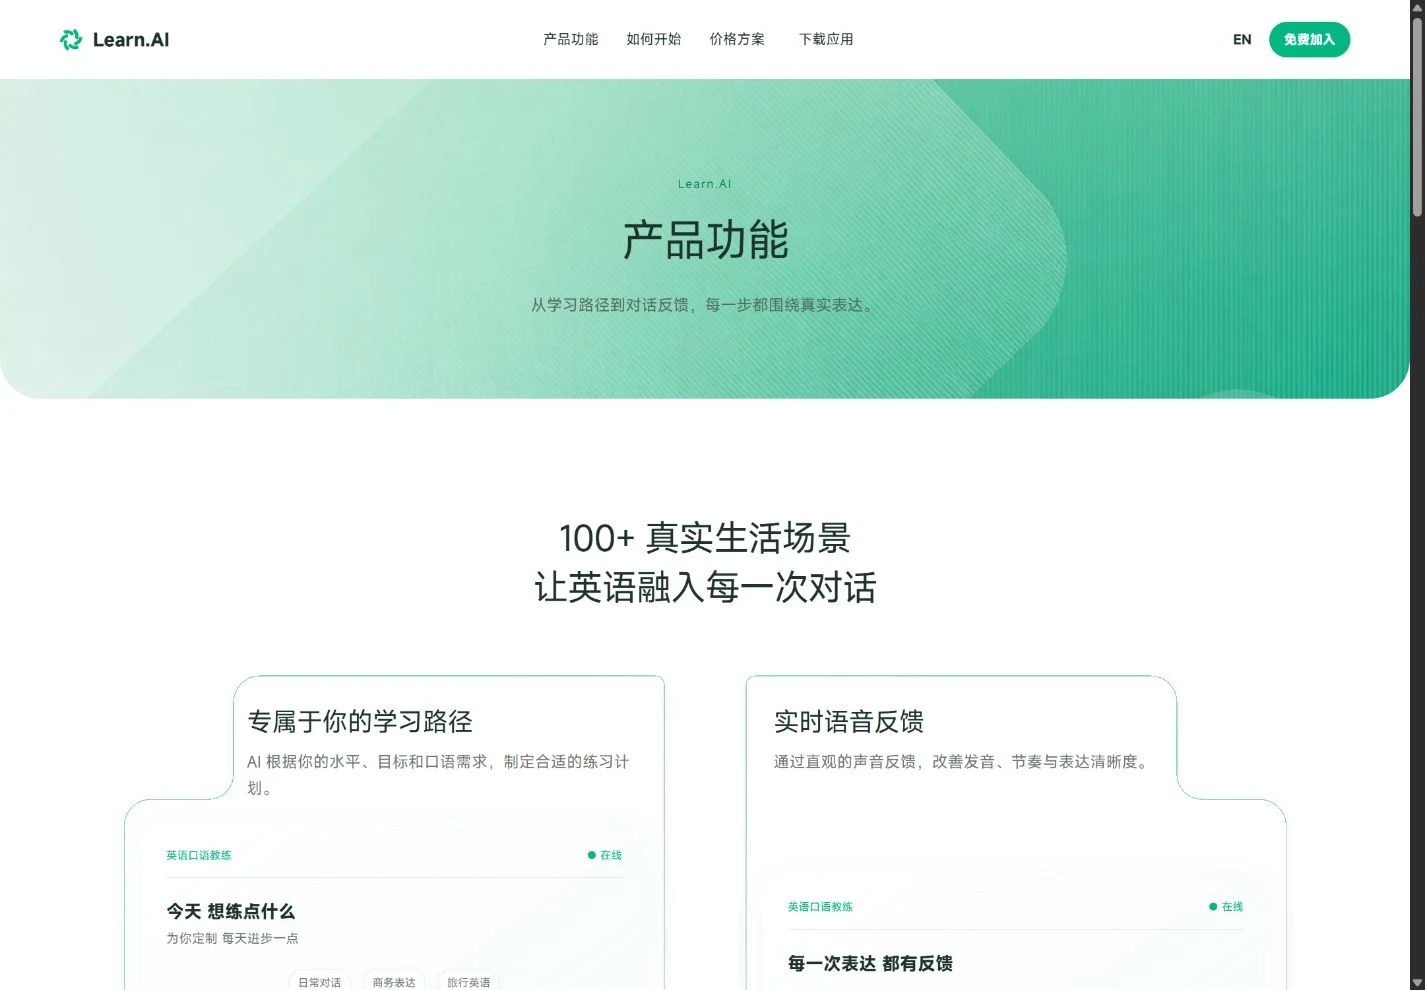
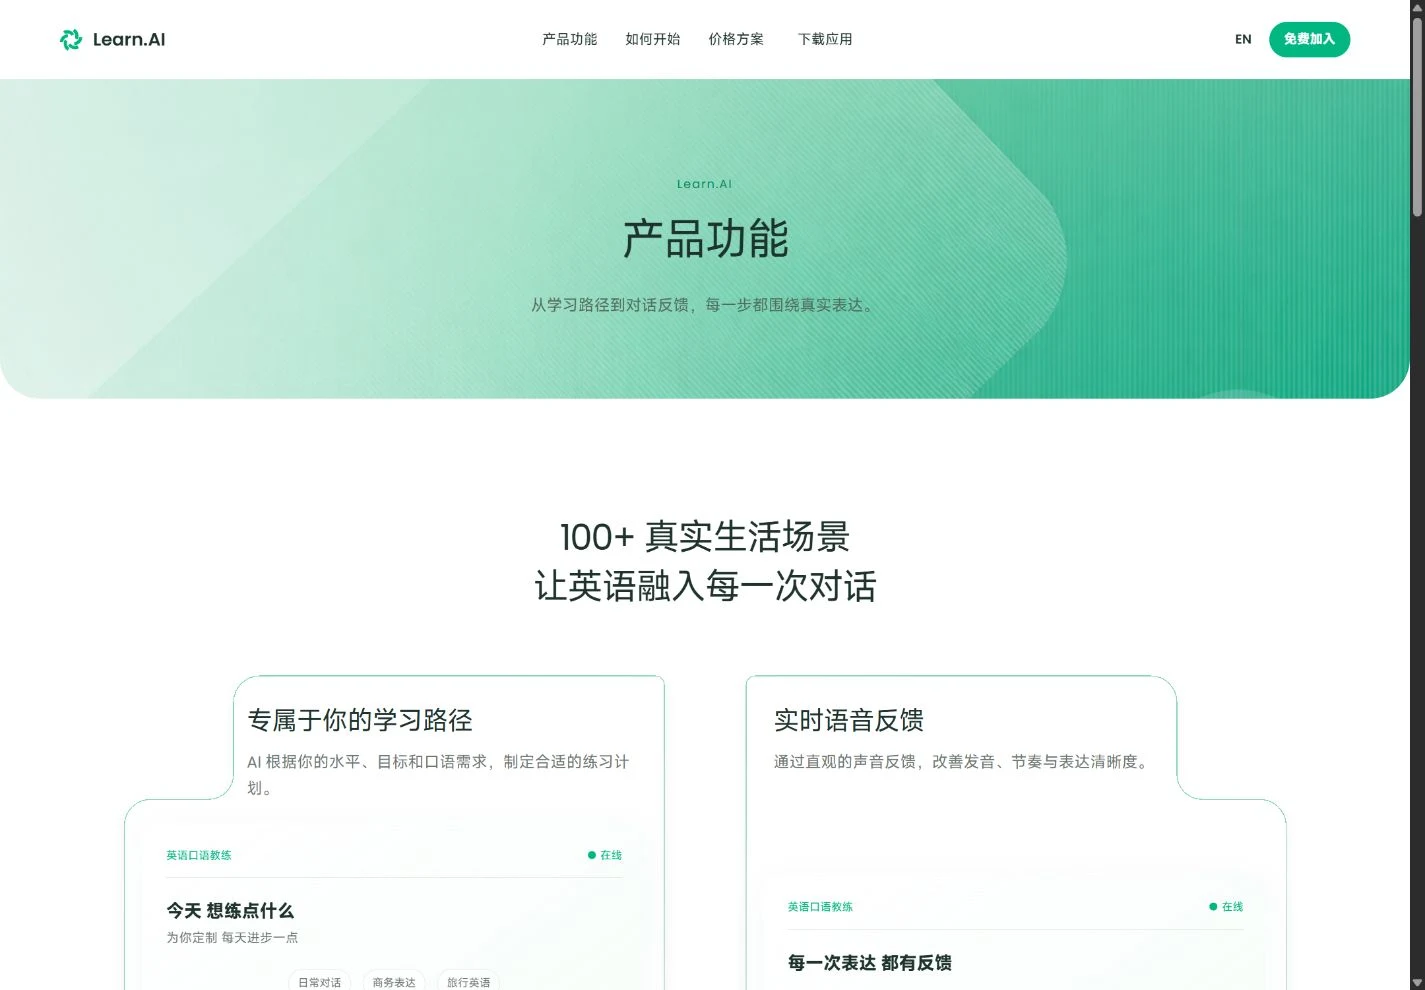
fix: use Poppins for Latin text and refresh verified previews

diff --git a/src/features/site-templates/catalog/learnai/theme.css b/src/features/site-templates/catalog/learnai/theme.css
@@ -3,7 +3,7 @@
 @font-face{font-family:LearnPop;src:url('/templates/learnai/fonts/poppins-latin-400.woff2') format('woff2');font-weight:400;font-display:swap}
 @font-face{font-family:LearnPop;src:url('/templates/learnai/fonts/poppins-latin-600.woff2') format('woff2');font-weight:600;font-display:swap}
 @font-face{font-family:LearnPop;src:url('/templates/learnai/fonts/poppins-latin-700.woff2') format('woff2');font-weight:700;font-display:swap}
-.la-root{--la-green:#00b782;--la-deep:#1e332d;--la-muted:#6f7773;--la-border:#e6ece8;--la-glass:linear-gradient(145deg,#fff9,#f2fbf5b3);--la-shadow:0 12px 36px #183e2d0a;--la-dark:#050807;--la-radius:24px;--la-space:clamp(64px,8vw,120px);--la-container:1320px;--la-h1:clamp(28px,4.6vw,44px);--la-h2:clamp(24px,3.6vw,36px);--la-h3:clamp(20px,2.3vw,26px);color:var(--la-deep);font:400 16px/1.8 LearnMi,LearnPop,sans-serif;background:#fff;position:relative;isolation:isolate;overflow:clip}
+.la-root{--la-green:#00b782;--la-deep:#1e332d;--la-muted:#6f7773;--la-border:#e6ece8;--la-glass:linear-gradient(145deg,#fff9,#f2fbf5b3);--la-shadow:0 12px 36px #183e2d0a;--la-dark:#050807;--la-radius:24px;--la-space:clamp(64px,8vw,120px);--la-container:1320px;--la-h1:clamp(28px,4.6vw,44px);--la-h2:clamp(24px,3.6vw,36px);--la-h3:clamp(20px,2.3vw,26px);color:var(--la-deep);font:400 16px/1.8 LearnPop,LearnMi,sans-serif;background:#fff;position:relative;isolation:isolate;overflow:clip}
 .la-root[lang=en]{font-family:LearnPop,LearnMi,sans-serif}
 .la-root *{box-sizing:border-box}
 .la-root :is(h1,h2,h3,h4,p){margin:0}
